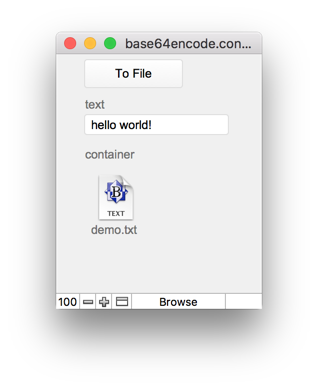
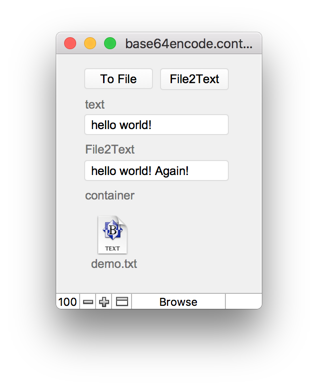
post

diff --git a/source/_posts/filemaker2.md b/source/_posts/filemaker2.md
@@ -1,20 +1,33 @@
-title: "FileMaker 和我的一些小故事 (2): 版本的故事"
+title: "FileMaker 和我的一些小故事 (2): 版本的故事－Base64Decode"
 date: 2016-09-25 14:12:32
 updated: 2016-09-25 14:12:32
 tags: [baby step, FileMaker, web, javascript, writting]
 categories: profession
 ---
-似乎每次版本更新，FileMaker 都会给开发者带来一些新功能。然而和 Apple Inc. 出 iPhone 的习惯一样，FileMaker 也不爱啰嗦把每次更新的内容说清楚，于是有了 Base64Decode 这个坑。
+似乎每次版本更新，FileMaker 都会给开发者带来一些“早就该有的”新功能。然而和 Apple Inc. 出 iPhone 的习惯一样，FileMaker 也不爱啰嗦把每次更新的内容说清楚，于是有了 Base64Decode 这个坑。
 
-在开发解决方案时，常常需要将数据库内的数据导出。除了常用的导出通道（export）之外，FileMaker 14 支持将数据保存为容器中的文件。导出容器中的文件是 FileMaker 已经支持的功能，也可以用脚本执行。[这里](https://github.com/daweih/FileMakerScriptEditor/blob/master/base64encode.container.fmp12)有一个示例，演示在 13，14，15 上此功能的差别。
+<center>![1](http://daweih.github.io/images/fm2.0.png "Export records")
 
-<center>![1](http://daweih.github.io/images/fm2.1.png "base64encode.container.fmp12")
+在开发解决方案时，常常需要将数据库内的数据导出。除了常用的导出通道（Export）之外，FileMaker 14 支持将数据保存为容器中的文件。导出容器中的文件是 FileMaker 已经支持的功能，也可以用脚本执行。[这里](https://github.com/daweih/FileMakerScriptEditor/blob/master/base64encode.container.fmp12)有一个示例，演示在 13，14，15 上此功能的差别。采用的代码如下：
 
-目前，FileMaker 最新的发行版..
+``` bash
+$ Set Field [ container::container ; Base64Decode ( Base64Encode ( GetAsText ( container::text ) );"demo.txt" ) ] 
+$ Set Field [ container::File2Text ; Base64Decode ( Base64Encode ( container::container ) ) ] 
+```
+
+可以看出，将字段内的数据直接导出为文件或从文件导入到字段，一个命令搞定，非常方便。下一步就可以用这个文件调用外部程序处理了，比如用插件 [ScriptMaster](http://www.360works.com/scriptmaster/) 的运行脚本功能使用 perl 语言处理文本，会比 FileMaker 自带的脚本强大得多。基于这个设计，我做了 [FileMakerScriptEditor](https://github.com/daweih/FileMakerScriptEditor) 这个项目，可以在 FileMaker 内编辑脚本，运行脚本处理 FileMaker 内存储的数据。
+
+<center>![2](http://daweih.github.io/images/fm2.1.png "base64encode.container.fmp12")
+
+目前，FileMaker 最新的发行版是 15。在这个平台下开发出来的解决方案常常遇到需要对旧版本适配的问题。比如我供职的公司，就有大量的用户还在使用 FileMaker 13。比如上述功能，就产生了不兼容。于是免不了到处搜寻bug......最终，针对 FileMakerScriptEditor，采用了先计算客户端版本，在判断为 13 后，选择用 ScriptMaster 替代 Base64Decode 实现了此功能。
+
+此外，从文件导入内容到字段的功能，最常用的另一个方面是库内置包的更新。我们知道，FileMaker 在 14 及以后的版本中，对 javascript 的支持越来越好。我们常用的 JS 包如果内置在库内部，直接调用，会比调用外部的包稳定很多。采用对拖入容器（container）的包直接提取代码，可以简单地实现拖入包文件即升级系统 JS 的包代码。此外，拖入文本文件直接导入其中的数据也是很便捷的一个应用。
+
 
 #### Reference
 1. [Base64Decode](http://www.filemaker.com/help/13/fmp/en/html/func_ref1.31.13.html)
 2. [FileMakerScriptEditor](https://github.com/daweih/FileMakerScriptEditor)
+3. [ScriptMaster](http://www.360works.com/scriptmaster/)
 
 <br>
 <div align=center>
